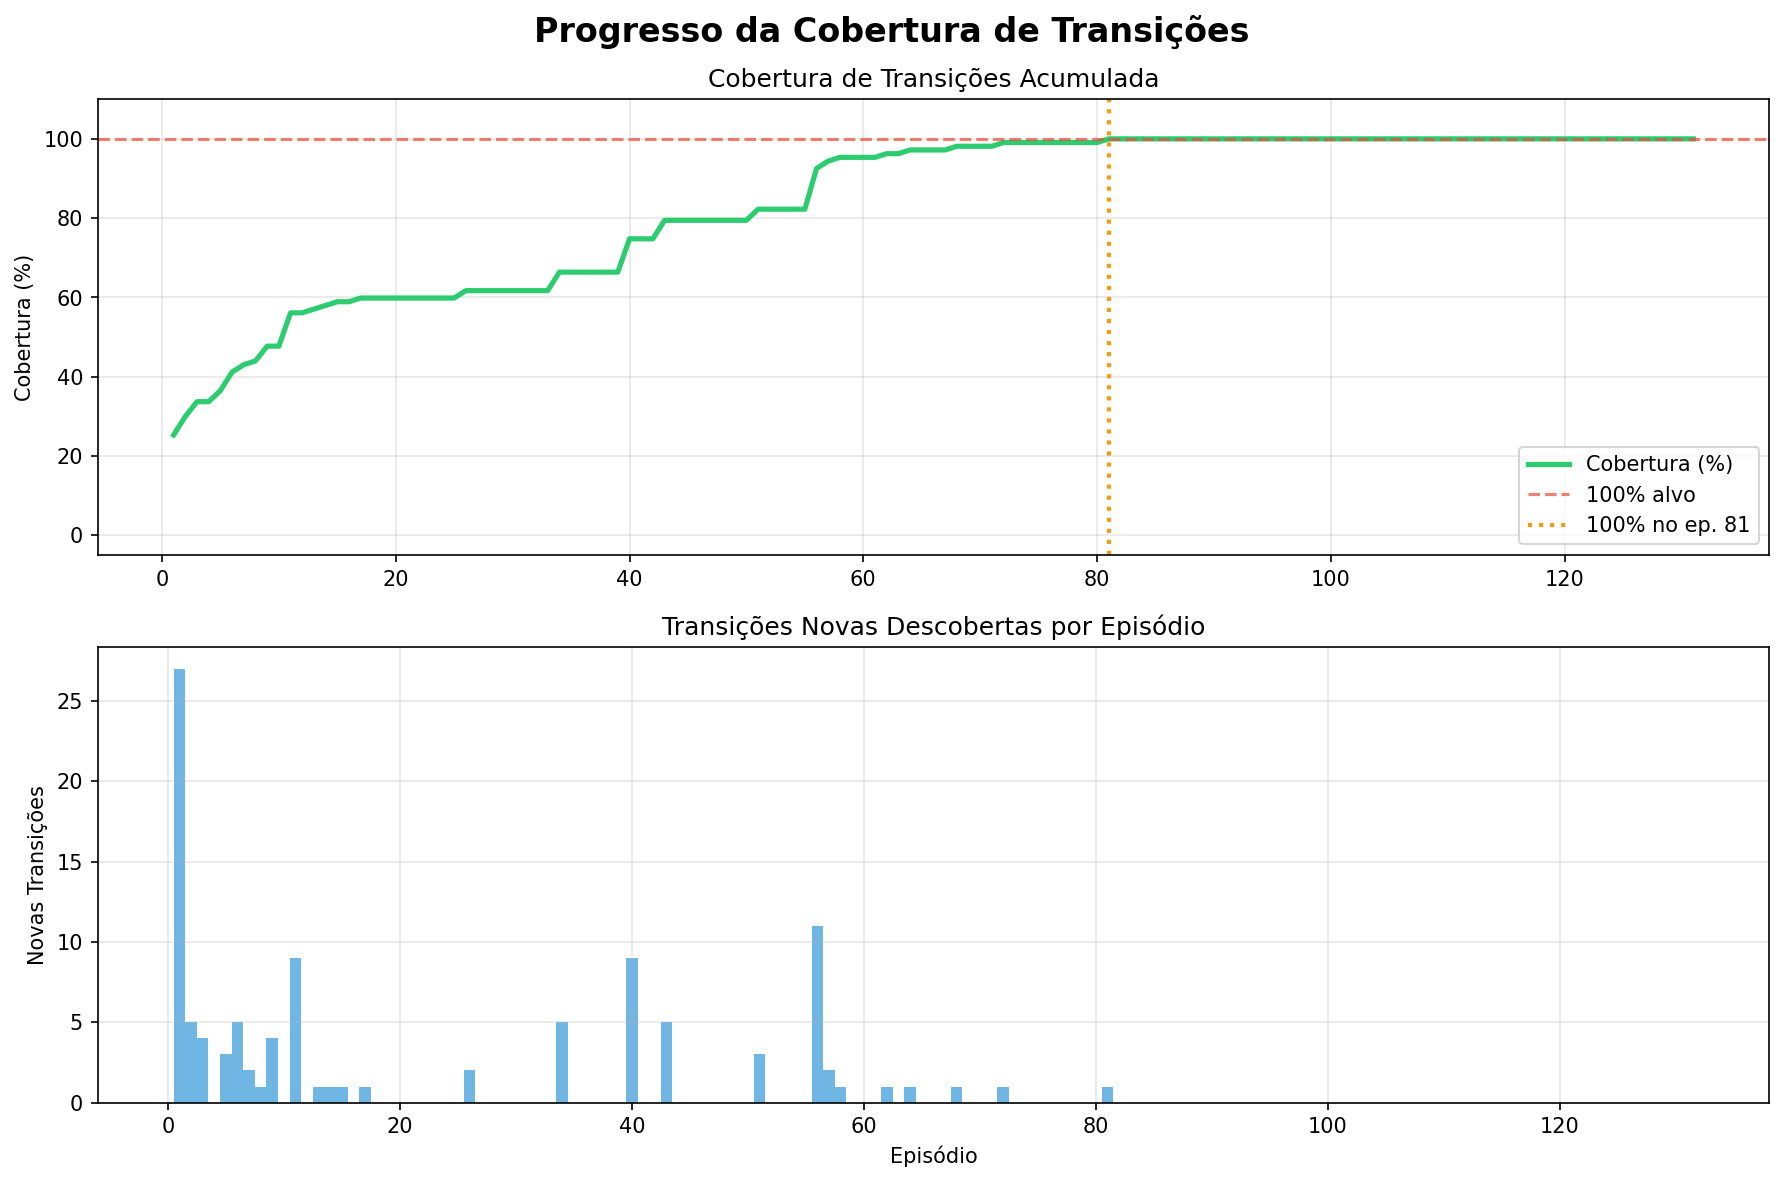
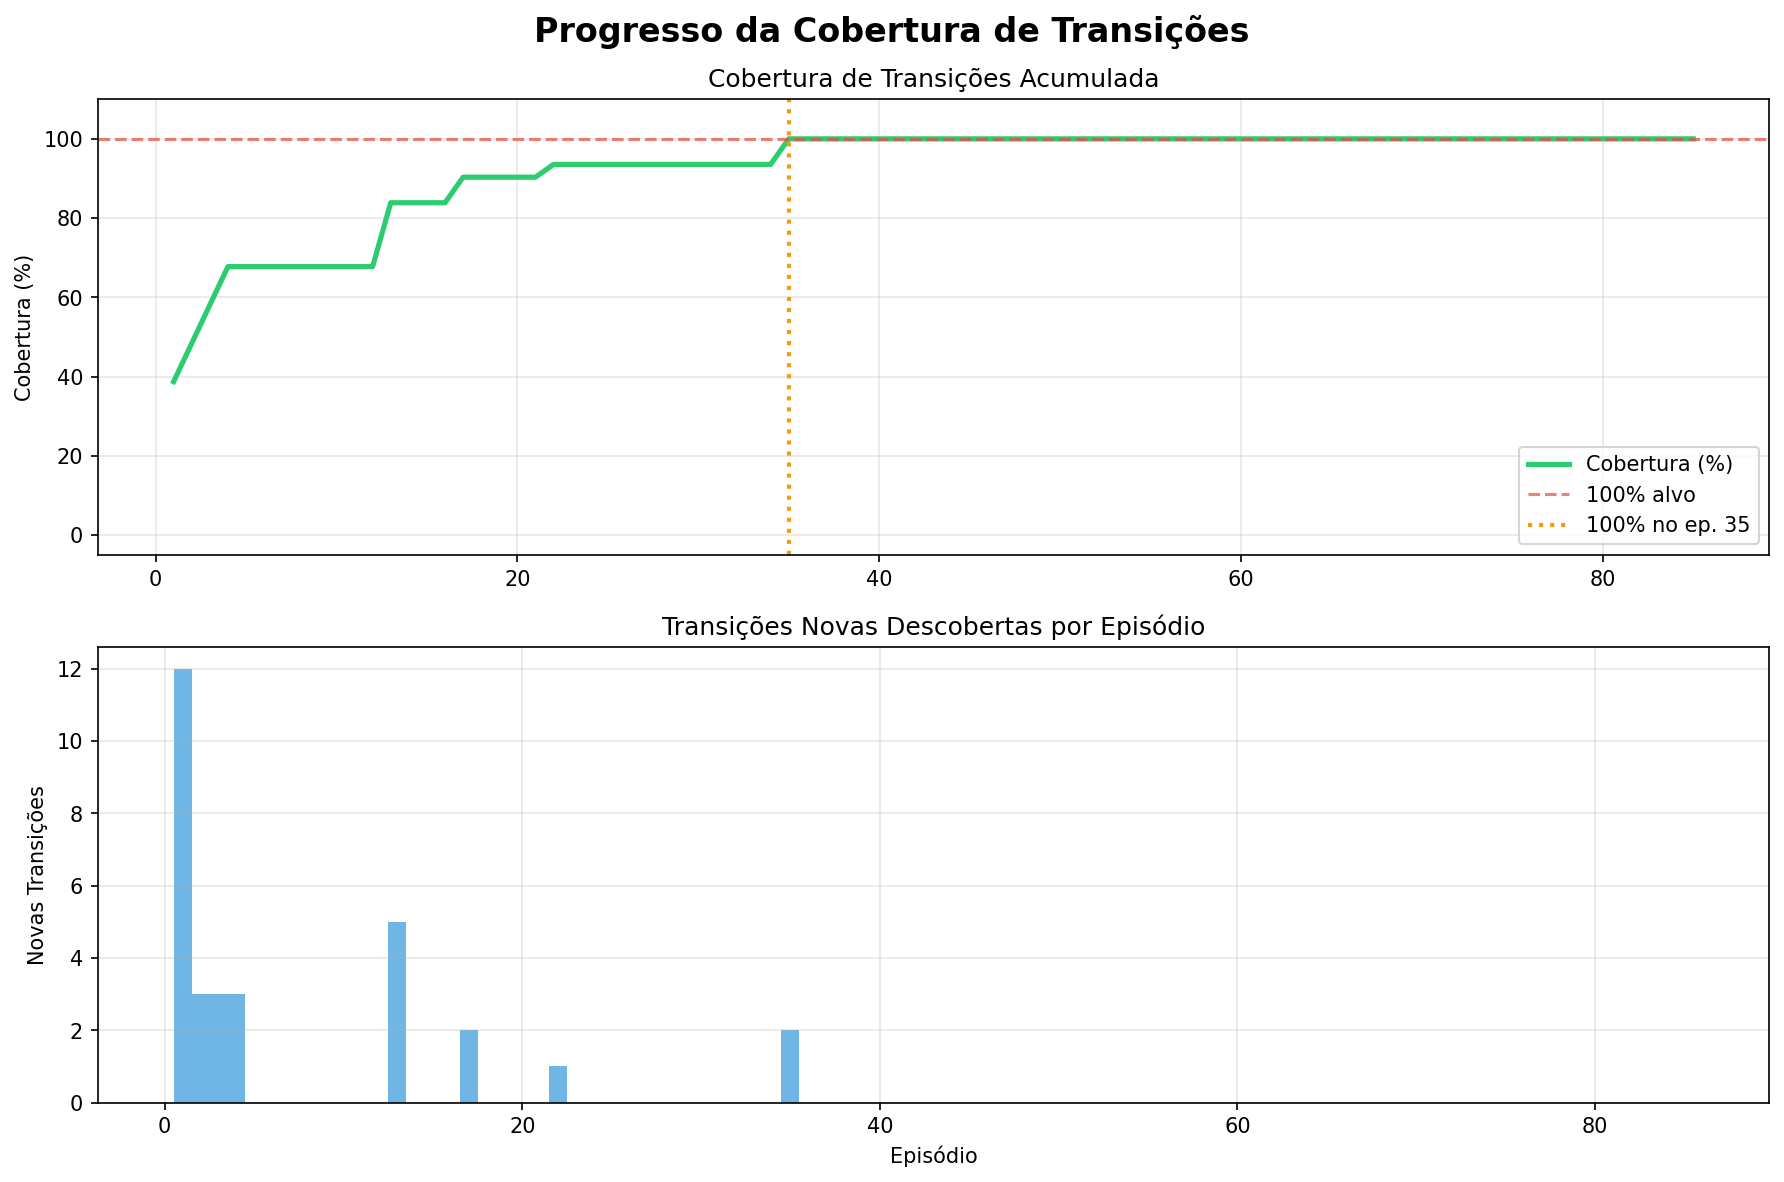
README.MD updated

diff --git a/README.md b/README.md
@@ -6,12 +6,34 @@ Implementação de um agente **Q-Learning** que aprende a navegar de forma ótim
 
 O **Q-Learning** é um algoritmo de **Aprendizado por Reforço** (*Reinforcement Learning*) que permite a um agente aprender, por tentativa e erro, qual ação tomar em cada estado para maximizar a recompensa acumulada.
 
-Neste projeto, o ambiente é modelado como um **autômato finito** onde:
+Neste projeto, o ambiente é modelado como um **autômato finito** carregado a partir de um **arquivo JSON**, onde:
 
-- **Estados** = Nós do autômato (`S0`, `S1`, ..., `S5`)
-- **Ações** = Transições possíveis (`a`, `b`)
-- **Recompensas** = Feedback numérico por cada transição
-- **Objetivo** = Alcançar o estado `S5` no menor número de passos
+- **Estados** = Nós do autômato
+- **Ações** = Inputs das transições (extraídos automaticamente do JSON)
+- **Transições** = Mapeamento `(estado, ação) → próximo_estado`
+- **Objetivo** = Alcançar um estado alvo no menor número de passos (modo Q-Learning) ou cobrir todas as transições (modo cobertura)
+
+### Formato do arquivo JSON da FSM
+
+```json
+{
+  "initial": "nome_estado_inicial",
+  "states": [
+    {
+      "state": "nome_estado",
+      "transitions": [
+        {
+          "input": "nome_acao",
+          "output": [],
+          "target": "nome_estado_destino"
+        }
+      ]
+    }
+  ]
+}
+```
+
+A pasta `fsm/` contém exemplos de FSMs neste formato.
 
 ### Equação de Bellman (Q-Update)
 
@@ -26,16 +48,6 @@ Onde:
 - `s'` = Próximo estado
 - `max_a' Q(s', a')` = Melhor valor Q futuro estimado
 
-## 🏗 Estrutura do autômato de exemplo
-
-```
-S0 --a--> S1 --a--> S3 --b--> S5 (OBJETIVO)
-|         |                     ^
-b         b                     |
-v         v                     a
-S2 --a--> S4 --------a-------> S5
-```
-
 ## 🚀 Como executar
 
 ### 1. Instalar dependências
@@ -44,34 +56,71 @@ S2 --a--> S4 --------a-------> S5
 pip install -r requirements.txt
 ```
 
-### 2. Executar
+### 2. Modo Q-Learning (caminho ótimo)
 
 ```bash
-python main.py
+python main.py <caminho_fsm.json> --goal-states <estado_alvo> [--max-steps 50]
 ```
 
-### Saída esperada
+**Exemplos:**
 
-O script irá:
-1. Treinar o agente por 1000 episódios
-2. Exibir a **Q-Table** final
-3. Mostrar o **melhor caminho** aprendido
-4. Gerar gráficos:
+```bash
+# LightSwitch — objetivo: chegar ao estado "ligado"
+python main.py fsm/_01_LightSwitch_flattened.json --goal-states main_On__
+
+# DimmableLightSwitch — objetivo: brilho máximo
+python main.py fsm/_02_DimmableLightSwitch_flattened.json --goal-states main_On__brightness_10
+
+# Múltiplos estados alvo
+python main.py fsm/_02_DimmableLightSwitch_flattened.json --goal-states main_On__brightness_9 main_On__brightness_10
+```
+
+**Saída:**
+1. Treina o agente por 1000 episódios
+2. Exibe a **Q-Table** final
+3. Mostra o **melhor caminho** aprendido
+4. Gera gráficos:
    - `training_results.png` — Convergência das recompensas
    - `q_table_heatmap.png` — Heatmap da Q-Table
    - `fsm_diagram.png` — Diagrama do autômato com caminho ótimo
 
-## 📁 Estrutura do Projeto
+### 3. Modo Cobertura de Transições
 
+```bash
+python main_coverage.py <caminho_fsm.json> [--max-steps 50]
 ```
-Q-learning-fst/
-├── fsm_environment.py    # Ambiente FSM (estados, transições, recompensas)
-├── q_learning_agent.py   # Agente Q-Learning (Q-Table, ε-greedy, treino)
-├── visualization.py      # Gráficos e visualizações
-├── main.py               # Script principal
-├── requirements.txt      # Dependências
-└── README.md             # Este arquivo
+
+**Exemplos:**
+
+```bash
+# FSM simples (2 estados, 2 transições)
+python main_coverage.py fsm/_01_LightSwitch_flattened.json
+
+# FSM média (21 estados, 31 transições)
+python main_coverage.py fsm/_02_DimmableLightSwitch_flattened.json
+
+# FSM maior com mais passos por episódio
+python main_coverage.py fsm/_03_MotionLightSwitch_flattened.json --max-steps 200
 ```
+
+**Saída:**
+1. Treina o agente com foco em cobertura
+2. Exibe **relatório de cobertura** (transições cobertas/não cobertas)
+3. Gera **suíte de testes mínima** (greedy set cover)
+4. Gera gráficos:
+   - `coverage_progress.png` — Evolução da cobertura ao longo dos episódios
+   - `fsm_coverage.png` — Diagrama do autômato com transições cobertas vs não cobertas
+
+## 🧪 Cobertura de Transições
+
+**Transition Coverage (Cobertura de Transições)**: cada transição `(estado, ação) → próximo_estado` definida na FSM deve ser exercitada pelo menos uma vez pela suíte de testes gerada.
+
+A função de recompensa é adaptada:
+- **+50** por exercitar uma transição **ainda não coberta**
+- **-1** por revisitar uma transição **já coberta**
+- **-10** por ação inválida
+
+Assim, o Q-Learning aprende a explorar transições novas, gerando sequências de teste com cobertura máxima.
 
 ## ⚙ Hiperparâmetros
 
@@ -83,76 +132,25 @@ Q-learning-fst/
 | `ε decay` | 0.995 | Decaimento por episódio |
 | Episódios | 1000 | Número de episódios de treino |
 
-## 🔧 Personalização
-
-Você pode definir seu próprio autômato editando as transições em `fsm_environment.py` ou criando uma nova instância de `FSMEnvironment` em `main.py`:
-
-```python
-from fsm_environment import FSMEnvironment
-
-env = FSMEnvironment(
-    states=["A", "B", "C"],
-    actions=["x", "y"],
-    transitions={
-        ("A", "x"): "B",
-        ("A", "y"): "C",
-        ("B", "x"): "C",
-    },
-    rewards={
-        ("A", "x"): -1.0,
-        ("A", "y"): -1.0,
-        ("B", "x"): 100.0,
-    },
-    initial_state="A",
-    goal_states={"C"},
-)
-```
-
-## 🧪 Modo: Cobertura de Transições (Test Coverage)
-
-Além do modo clássico (encontrar caminho ótimo), o projeto inclui um **modo de cobertura de transições** que usa Q-Learning para **gerar sequências de teste** que cobrem todas as transições da FSM.
-
-### Critério de cobertura
-
-**Transition Coverage (Cobertura de Transições)**: cada transição `(estado, ação) → próximo_estado` definida na FSM deve ser exercitada pelo menos uma vez pela suíte de testes gerada.
-
-### Como funciona
-
-A função de recompensa é adaptada:
-- **+50** por exercitar uma transição **ainda não coberta**
-- **-1** por revisitar uma transição **já coberta**
-- **-10** por ação inválida
-
-Assim, o Q-Learning aprende a explorar transições novas, gerando sequências de teste com cobertura máxima.
-
-### Executar modo cobertura
-
-```bash
-python main_coverage.py
-```
-
-### Saída esperada
-
-1. Treina o agente com foco em cobertura
-2. Exibe **relatório de cobertura** (transições cobertas/não cobertas)
-3. Gera **suíte de testes mínima** (greedy set cover)
-4. Gera gráficos:
-   - `coverage_progress.png` — Evolução da cobertura ao longo dos episódios
-   - `fsm_coverage.png` — Diagrama do autômato com transições cobertas vs não cobertas
-
 ## 📁 Estrutura do Projeto
 
 ```
 Q-learning-fst/
-├── fsm_environment.py    # Ambiente FSM (estados, transições, recompensas)
-├── q_learning_agent.py   # Agente Q-Learning clássico (caminho ótimo)
-├── coverage_agent.py     # Agente Q-Learning para cobertura de transições
-├── coverage_runner.py    # Orquestrador da geração de testes
-├── visualization.py      # Gráficos e visualizações (ambos os modos)
-├── main.py               # Script principal (modo caminho ótimo)
-├── main_coverage.py      # Script principal (modo cobertura de transições)
-├── requirements.txt      # Dependências
-└── README.md             # Este arquivo
+├── fsm/                      # FSMs em formato JSON
+│   ├── _01_LightSwitch_flattened.json
+│   ├── _02_DimmableLightSwitch_flattened.json
+│   ├── _03_MotionLightSwitch_flattened.json
+│   ├── _04_LightAndMotionSensingLightSwitch_flattened.json
+│   └── _05_PresenceSimulationLightSwitch_flattened.json
+├── fsm_environment.py        # Ambiente FSM + carregamento de JSON
+├── q_learning_agent.py       # Agente Q-Learning clássico (caminho ótimo)
+├── coverage_agent.py         # Agente Q-Learning para cobertura de transições
+├── coverage_runner.py        # Orquestrador da geração de testes
+├── visualization.py          # Gráficos e visualizações (ambos os modos)
+├── main.py                   # Script principal (modo caminho ótimo)
+├── main_coverage.py          # Script principal (modo cobertura de transições)
+├── requirements.txt          # Dependências
+└── README.md                 # Este arquivo
 ```
 
 "# q-learning-fst" 
